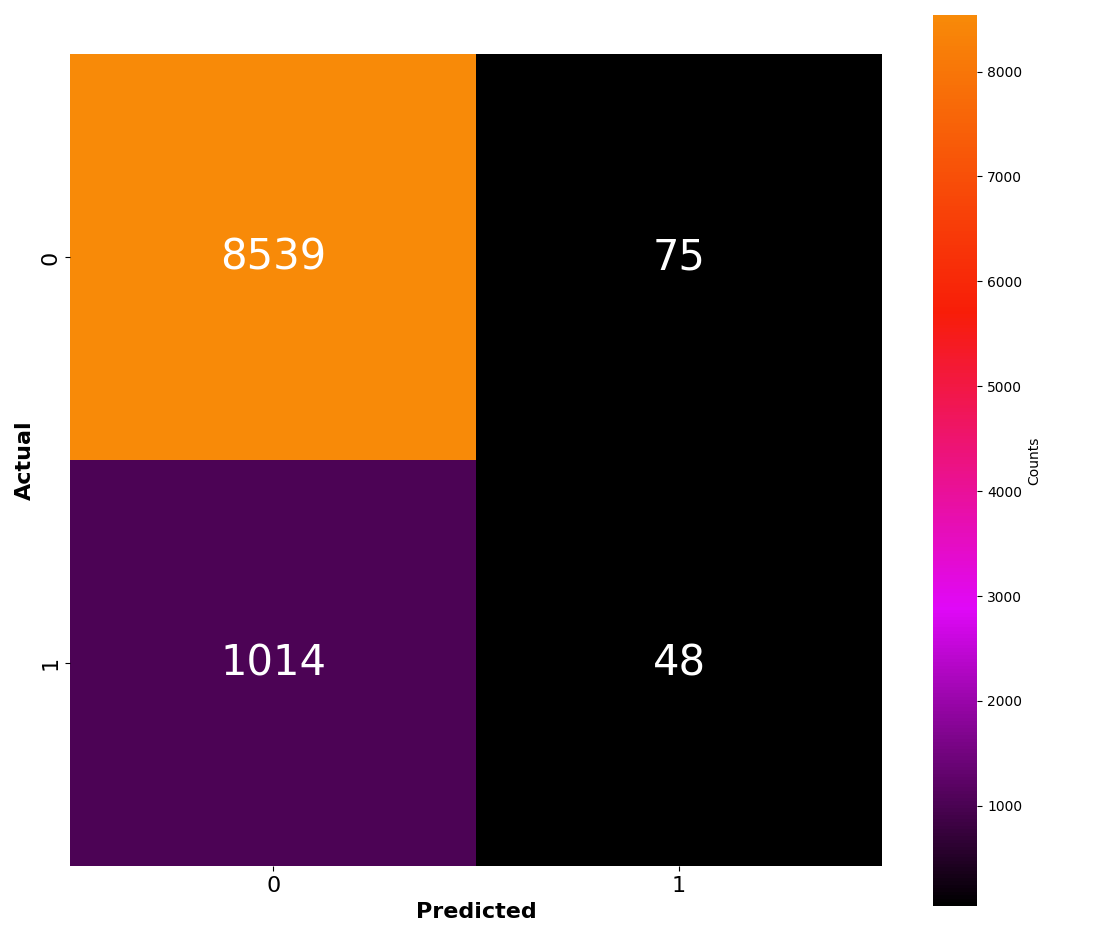
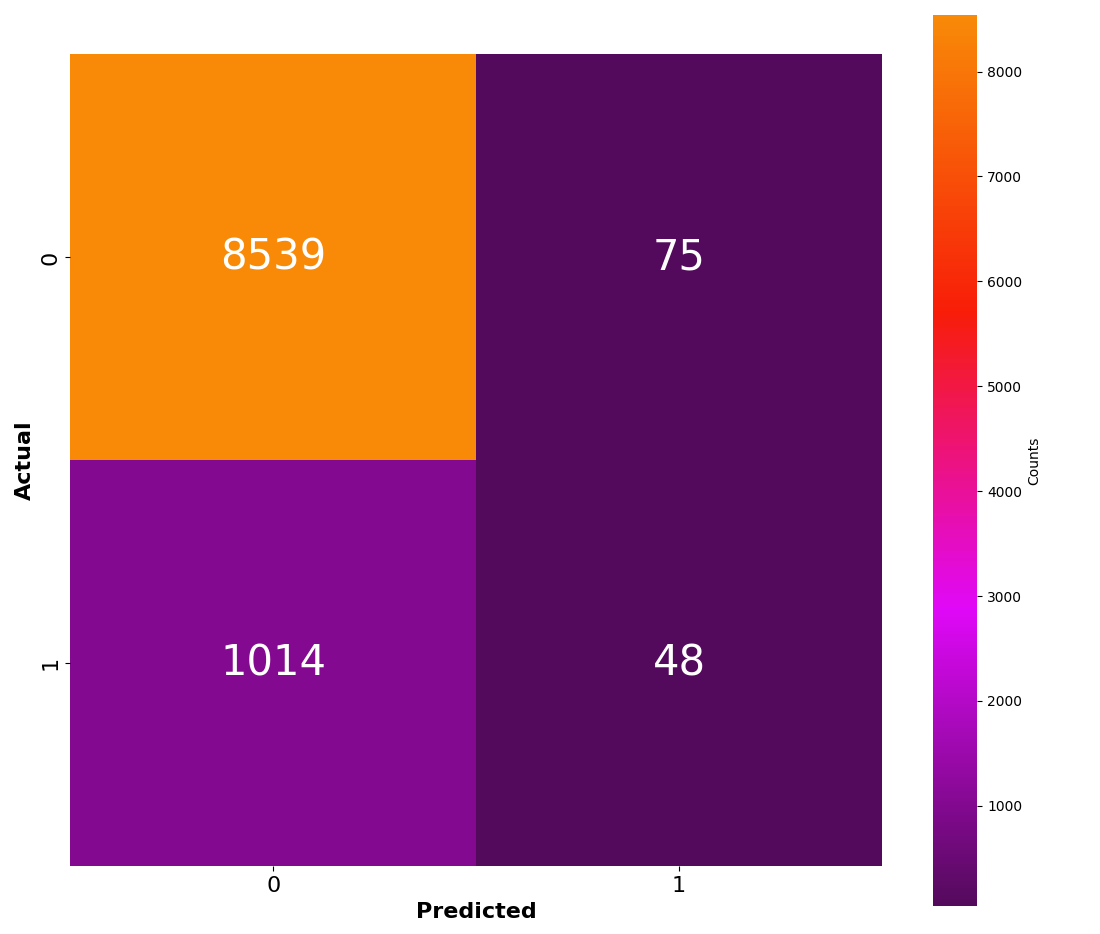
confusion matrix python plotly

diff --git a/Plot_types/Confusion_Matrix/Confusion_Matrix_Python_plotly.py b/Plot_types/Confusion_Matrix/Confusion_Matrix_Python_plotly.py
@@ -1,0 +1,113 @@
+
+# Paths:
+path_data = "data/"
+
+# Packages:
+import numpy as np
+import pandas as pd
+import plotly.graph_objects as go
+from matplotlib.colors import LinearSegmentedColormap, to_hex
+from sklearn.linear_model import LogisticRegression
+from sklearn.metrics import classification_report, confusion_matrix, roc_curve, roc_auc_score
+from sklearn.model_selection import train_test_split
+
+# Display options:
+pd.set_option("display.width", 1200)
+pd.set_option("display.max_columns", 300)
+pd.set_option("display.max_rows", 300)
+
+# Dataset:
+df = pd.read_csv(path_data + "nasa_exoplanets.csv")
+df_varnames = pd.read_csv(path_data + "nasa_exoplanets_var_names.csv")
+
+# Variables:
+resp_var = "ttv_flag"
+resp_var_name = df_varnames.loc[(df_varnames["var"] == resp_var), ["var_name"]].values[0][0]
+pred_vars = ["sy_snum", "sy_pnum", "disc_year", "pl_orbeccen", "st_teff", "st_mass", "sy_pm",
+            "sy_dist", "sy_gaiamag"]
+pred_vars_names = df_varnames.loc[df_varnames["var"].isin(pred_vars)].copy()["var_name"].values.tolist()
+
+# Adapt the data:
+df_data = df[[resp_var] + pred_vars]
+df_data = df_data.dropna()
+df_data = df_data.reset_index(drop = True)
+
+# Classification model:
+x = df_data[pred_vars].values.reshape(-1, len(pred_vars))
+y = df_data[resp_var].values
+x_train, x_test, y_train, y_test = train_test_split(x, y,
+                                                    test_size = 0.7,
+                                                    random_state = 42)
+model = LogisticRegression(
+    penalty = "l2",
+    tol = 1E-4,
+    C = 1,
+    fit_intercept = True,
+    random_state = 0,
+    solver = "liblinear"
+).fit(x_train, y_train)
+
+# Confusion matrix:
+cm = pd.DataFrame(
+    data = confusion_matrix(y_true = y_test,
+                            y_pred = model.predict(x_test)),
+    index = [0, 1],
+    columns = [0, 1]
+)
+x_vals = cm.index.tolist()
+y_vals = cm.columns.tolist()
+cm = cm.to_numpy()
+
+# Plot:
+n_colors = 100
+my_colors = ["#540A5C", "#E008F8", "#F81D08", "#F88A08"]
+cmap = LinearSegmentedColormap.from_list("my_palette", my_colors)
+my_palette = [to_hex(j) for j in  [cmap(i/n_colors) for i in np.array(range(n_colors))]]
+
+fig = go.Figure(
+    data = [
+        go.Heatmap(
+            x = x_vals,
+            y = y_vals,
+            z = cm,
+            colorscale = my_palette,
+            hoverinfo = "none",
+            colorbar = dict(
+                title = "<b>Counts</b>"
+            )
+        )
+    ]
+)
+for x_ind, x_val in enumerate(x_vals):
+    for y_ind, y_val in enumerate(y_vals):
+        fig.add_annotation(
+            x = x_val,
+            y = y_val,
+            text = str(cm[x_ind, y_ind]),
+            showarrow = False,
+            font = {
+                "color": "white",
+                "size": 30
+            }
+        )
+fig.update_layout(
+    height = 800,
+    width = 800,
+    xaxis_title = "<b>Predicted</b>" ,
+    yaxis_title = "<b>Actual</b>",
+    font = dict(
+        size = 18
+    ),
+    plot_bgcolor = "white",
+    xaxis = {
+        "tickmode": "array",
+        "tickvals" : x_vals
+    },
+    yaxis = {
+        "tickmode": "array",
+        "tickvals": y_vals
+    }
+)
+fig.show()
+
+

diff --git a/Plot_types/Confusion_Matrix/Confusion_Matrix_Python_seaborn.py b/Plot_types/Confusion_Matrix/Confusion_Matrix_Python_seaborn.py
@@ -59,7 +59,7 @@ x_vals = cm.index.tolist()
 y_vals = cm.columns.tolist()
 
 # Plot:
-my_colors = ["#000000", "#E008F8", "#F81D08", "#F88A08"]
+my_colors = ["#540A5C", "#E008F8", "#F81D08", "#F88A08"]
 my_palette = LinearSegmentedColormap.from_list("my_palette", my_colors)
 
 fig, ax = plt.subplots(
